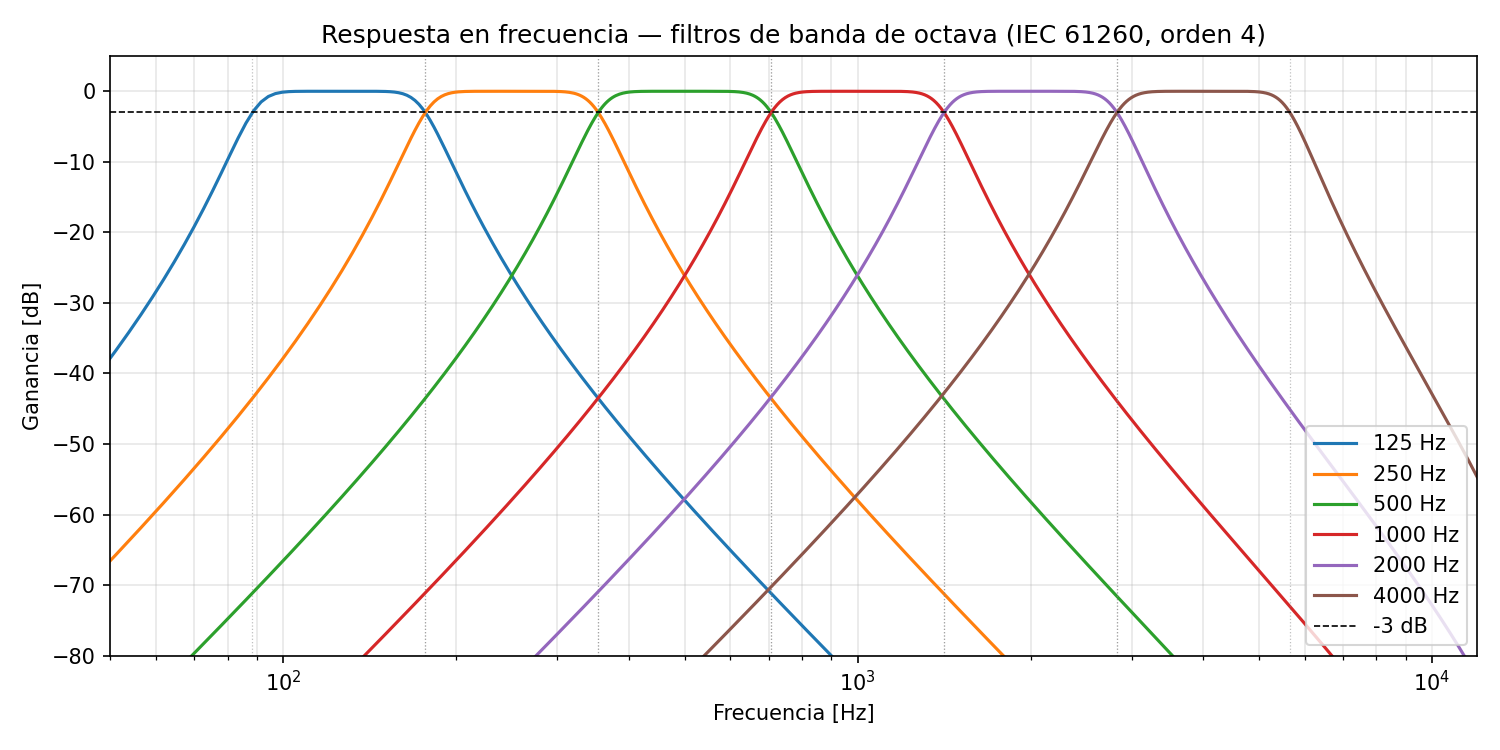
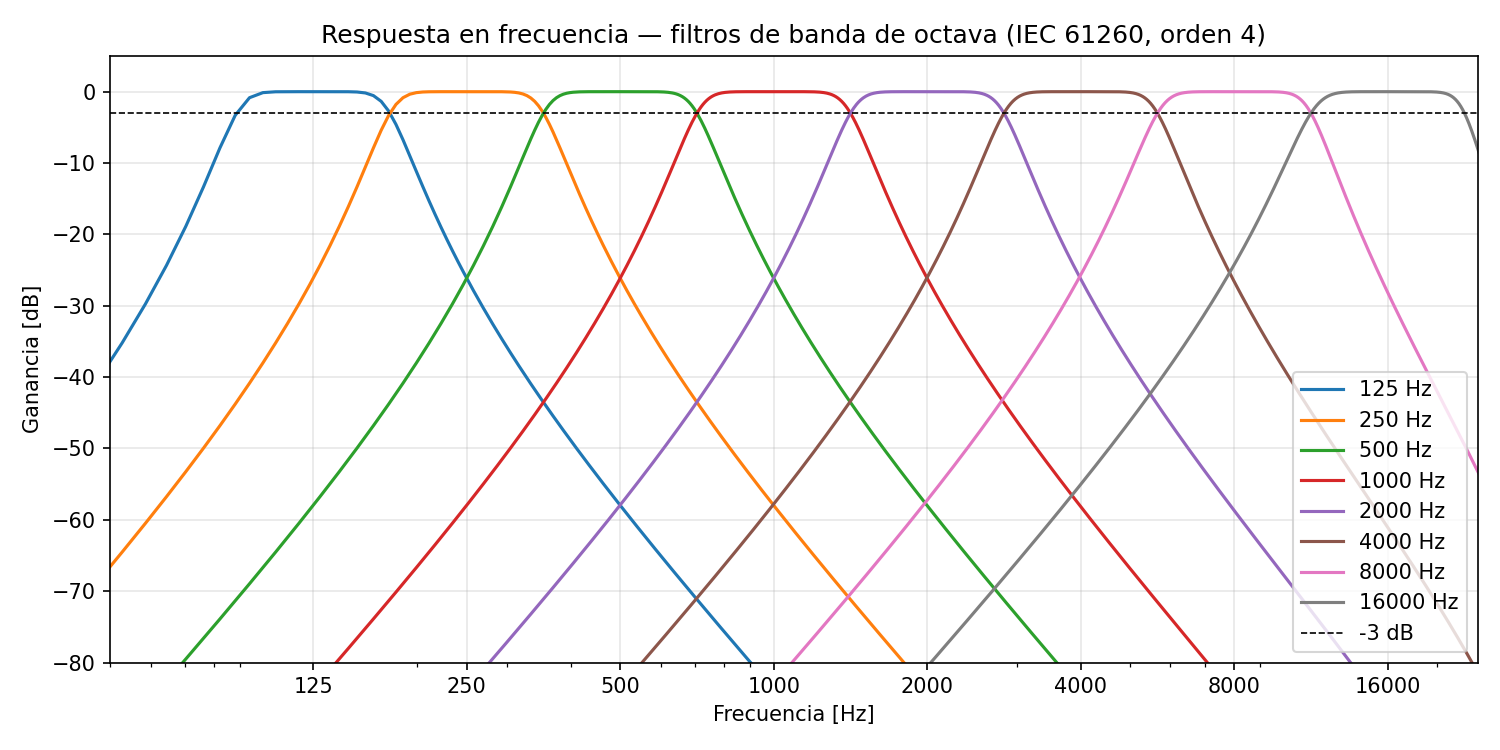
docs: Corregidos detalles visuales en graficos de validacion

diff --git a/docs/m1/generar_graficos.py b/docs/m1/generar_graficos.py
@@ -16,6 +16,7 @@ from pathlib import Path
 
 import matplotlib.pyplot as plt
 import numpy as np
+from matplotlib.ticker import FixedFormatter, FixedLocator
 from scipy.signal import fftconvolve, welch
 
 # Asegurar imports del proyecto
@@ -51,7 +52,12 @@ def grafico_ruido_rosa():
     log_p_db = 10 * np.log10(p)
     pendiente_db_oct, _ = np.polyfit(log_f, log_p_db, 1)
 
-    fig, ax = plt.subplots(figsize=(9, 5))
+    fc_octava  = [31.5, 63, 125, 250, 500, 1000, 2000, 4000, 8000, 16000]
+    fc_tercios = [20, 25, 31.5, 40, 50, 63, 80, 100, 125, 160, 200, 250, 315,
+                  400, 500, 630, 800, 1000, 1250, 1600, 2000, 2500, 3150, 4000,
+                  5000, 6300, 8000, 10000, 12500, 16000, 20000]
+
+    fig, ax = plt.subplots(figsize=(12, 8))
     ax.semilogx(f, 10 * np.log10(p), color="steelblue", alpha=0.6, lw=1, label="PSD medida (Welch)")
     ax.semilogx(f, 10 * np.log10(p_teorica), color="tomato", lw=2, linestyle="--",
                 label="Teorico -3 dB/oct")
@@ -59,8 +65,28 @@ def grafico_ruido_rosa():
     ax.set_ylabel("PSD (dB/Hz)")
     ax.set_title(f"Espectro del ruido rosa — pendiente medida: {pendiente_db_oct:.2f} dB/oct")
     ax.legend()
-    ax.grid(True, which="both", alpha=0.3)
     ax.set_xlim(20, 20000)
+
+    fc_oct_labels = [str(int(fc)) if fc == int(fc) else str(fc) for fc in fc_octava]
+    ax.xaxis.set_major_locator(FixedLocator(fc_octava))
+    ax.xaxis.set_major_formatter(FixedFormatter(fc_oct_labels))
+    ax.tick_params(axis='x', which='major', labelsize=9)
+
+    ax.xaxis.set_minor_locator(FixedLocator(fc_tercios))
+    ax.tick_params(axis='x', which='minor', labelbottom=False, length=3)
+
+    # Ticks en Y anclados al valor exacto a 1000 Hz, saltos de 3 dB
+    idx_1k = np.argmin(np.abs(f - 1000))
+    val_1k = 10 * np.log10(p[idx_1k])
+    p_db = 10 * np.log10(p)
+    n_down = int(np.ceil((val_1k - (p_db.min() - 3)) / 3)) + 1
+    n_up   = int(np.ceil(((p_db.max() + 3) - val_1k) / 3)) + 1
+    ticks_y = [val_1k + n * 3 for n in range(-n_down, n_up + 1)]
+    ax.yaxis.set_major_locator(FixedLocator(ticks_y))
+    ax.yaxis.set_major_formatter(plt.FuncFormatter(lambda x, _: f"{x:.1f}"))
+
+    ax.grid(True, which='major', alpha=0.5, linewidth=0.8)
+    ax.grid(True, which='minor', alpha=0.25, linewidth=0.5)
 
     path = OUTPUT_DIR / "ruido_rosa_espectro.png"
     fig.savefig(path, dpi=150, bbox_inches="tight")
@@ -94,7 +120,7 @@ def grafico_sweep():
 # ── Grafico 3: Convolucion sweep × filtro inverso ────────────────────────────
 
 def grafico_convolucion():
-    print("Generando grafico de convolucion sweep x filtro inverso...")
+    print("Generando grafico de convolucion Sweep * Filtro inverso...")
     sweep, filtro_inverso = generar_sine_sweep(f1=20, f2=20000, duracion=5.0, fs=FS)
     resultado = fftconvolve(sweep, filtro_inverso)
 
@@ -109,32 +135,32 @@ def grafico_convolucion():
     t_total = np.arange(len(resultado)) / FS
     t_relativo = (np.arange(len(resultado)) - indice_pico) / FS * 1000  # ms
 
-    fig, axes = plt.subplots(1, 2, figsize=(12, 4))
-
     # Vista completa
-    axes[0].plot(t_total, resultado, lw=0.5, color="steelblue")
-    axes[0].axvline(indice_pico / FS, color="tomato", lw=1.5, linestyle="--",
-                    label=f"Pico en t={indice_pico/FS:.2f} s")
-    axes[0].set_xlabel("Tiempo (s)")
-    axes[0].set_ylabel("Amplitud (normalizada)")
-    axes[0].set_title(f"sweep × filtro_inverso — SNR pico/piso ≈ {snr_db:.1f} dB")
-    axes[0].legend()
+    fig1, ax1 = plt.subplots(figsize=(10, 4))
+    ax1.plot(t_total, resultado, lw=0.5, color="steelblue")
+    ax1.set_xlabel("Tiempo (s)")
+    ax1.set_ylabel("Amplitud")
+    ax1.set_title(f"sweep × filtro_inverso — SNR pico/piso ≈ {snr_db:.1f} dB")
+    fig1.tight_layout()
+    path1 = OUTPUT_DIR / "convolucion_completa.png"
+    fig1.savefig(path1, dpi=150, bbox_inches="tight")
+    plt.close(fig1)
+    print(f"  Guardado: {path1}")
 
     # Zoom ±5 ms alrededor del pico
     ventana_ms = 5
     mascara_zoom = np.abs(t_relativo) <= ventana_ms
-    axes[1].plot(t_relativo[mascara_zoom], resultado[mascara_zoom],
-                 lw=1.2, color="steelblue")
-    axes[1].axvline(0, color="tomato", lw=1.5, linestyle="--")
-    axes[1].set_xlabel("Tiempo respecto al pico (ms)")
-    axes[1].set_ylabel("Amplitud (normalizada)")
-    axes[1].set_title("Zoom ±5 ms: aproximacion al impulso δ(t)")
-
-    fig.tight_layout()
-    path = OUTPUT_DIR / "convolucion_impulso.png"
-    fig.savefig(path, dpi=150, bbox_inches="tight")
-    plt.close(fig)
-    print(f"  Guardado: {path}")
+    fig2, ax2 = plt.subplots(figsize=(10, 4))
+    ax2.plot(t_relativo[mascara_zoom], resultado[mascara_zoom],
+             lw=1.2, color="steelblue")
+    ax2.set_xlabel("Tiempo respecto al pico (ms)")
+    ax2.set_ylabel("Amplitud")
+    ax2.set_title("Zoom ±5 ms: aproximacion al impulso δ(t)")
+    fig2.tight_layout()
+    path2 = OUTPUT_DIR / "convolucion_zoom.png"
+    fig2.savefig(path2, dpi=150, bbox_inches="tight")
+    plt.close(fig2)
+    print(f"  Guardado: {path2}")
 
 
 if __name__ == "__main__":

diff --git a/docs/m2/generate_m2.py b/docs/m2/generate_m2.py
@@ -89,28 +89,32 @@ print("OK Guardado:", out_file)
 # =========================
 # RESPUESTA EN FRECUENCIA — filtro_octava (IEC 61260)
 # =========================
+BANDAS_PLOT = [125, 250, 500, 1000, 2000, 4000, 8000, 16000]
+FS_PLOT = 96000
+
 fig, ax = plt.subplots(figsize=(10, 5))
 
-for fc in BANDAS:
+for fc in BANDAS_PLOT:
     f_inf = fc / np.sqrt(2)
     f_sup = fc * np.sqrt(2)
-    w_inf = 2 * f_inf / FS_REF
-    w_sup = 2 * f_sup / FS_REF
+    nyq = FS_PLOT / 2.0
+    w_inf = f_inf / nyq
+    w_sup = min(f_sup / nyq, 0.9999)
     sos = butter(4, [w_inf, w_sup], btype="band", output="sos")
-    w, h = sosfreqz(sos, worN=8192, fs=FS_REF)
+    w, h = sosfreqz(sos, worN=8192, fs=FS_PLOT)
     mag_db = 20 * np.log10(np.maximum(np.abs(h), 1e-10))
     ax.semilogx(w, mag_db, label=f"{fc} Hz")
-    ax.axvline(f_inf, color="gray", linestyle=":", linewidth=0.6, alpha=0.5)
-    ax.axvline(f_sup, color="gray", linestyle=":", linewidth=0.6, alpha=0.5)
 
 ax.axhline(-3, color="black", linestyle="--", linewidth=0.8, label="-3 dB")
-ax.set_xlim(50, 12000)
+ax.set_xlim(50, 24000)
 ax.set_ylim(-80, 5)
 ax.set_xlabel("Frecuencia [Hz]")
 ax.set_ylabel("Ganancia [dB]")
 ax.set_title("Respuesta en frecuencia — filtros de banda de octava (IEC 61260, orden 4)")
 ax.legend(loc="lower right")
-ax.grid(True, which="both", alpha=0.3)
+ax.set_xticks(BANDAS_PLOT)
+ax.set_xticklabels([str(fc) for fc in BANDAS_PLOT])
+ax.grid(True, which="major", alpha=0.3)
 plt.tight_layout()
 
 out_file = os.path.join(out_img, "respuesta_filtros.png")

diff --git a/docs/m1/validacion_m1.md b/docs/m1/validacion_m1.md
@@ -93,13 +93,15 @@ invirtiendo temporalmente la señal y aplicando una envolvente de corrección:
 
 $$x_{\text{inv}}(t) = \frac{x(T - t)}{A(t)}, \quad A(t) = e^{-t \ln(f_2/f_1)/T}$$
 
-![Convolución sweep × filtro inverso](imagenes/convolucion_impulso.png)
+![Convolución sweep × filtro inverso — vista completa](imagenes/convolucion_completa.png)
 
-**Panel izquierdo:** toda la energía de la señal resultante está concentrada en un único
-instante (t = 5 s), con el resto de la señal prácticamente en cero.
+Toda la energía de la señal resultante está concentrada en un único instante (t = 5 s),
+con el resto de la señal prácticamente en cero.
 
-**Panel derecho (zoom ±5 ms):** el resultado es un pulso estrecho con lóbulos laterales
-mínimos — la aproximación práctica al impulso ideal δ(t).
+![Convolución sweep × filtro inverso — zoom ±5 ms](imagenes/convolucion_zoom.png)
+
+El resultado es un pulso estrecho con lóbulos laterales mínimos — la aproximación
+práctica al impulso ideal δ(t).
 
 La relación señal a ruido pico/piso medida es de **≈ 101.7 dB**, muy por encima del
 umbral mínimo de 40 dB que exige el test automatizado. Esto garantiza que la
